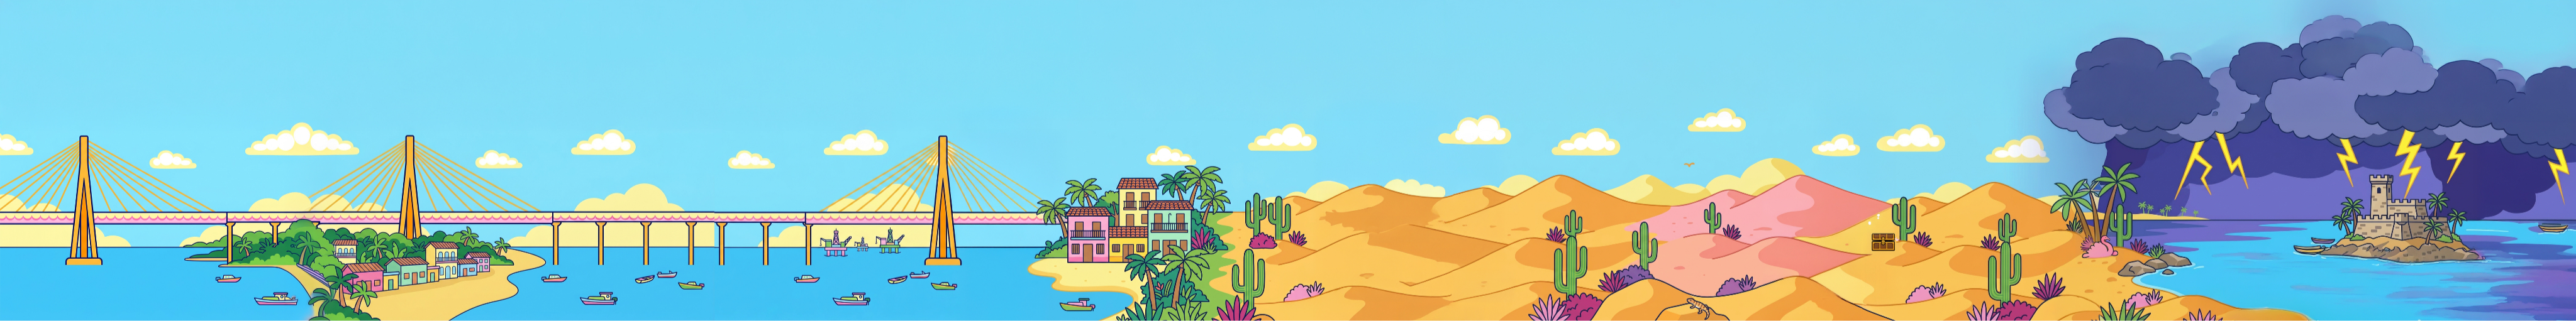
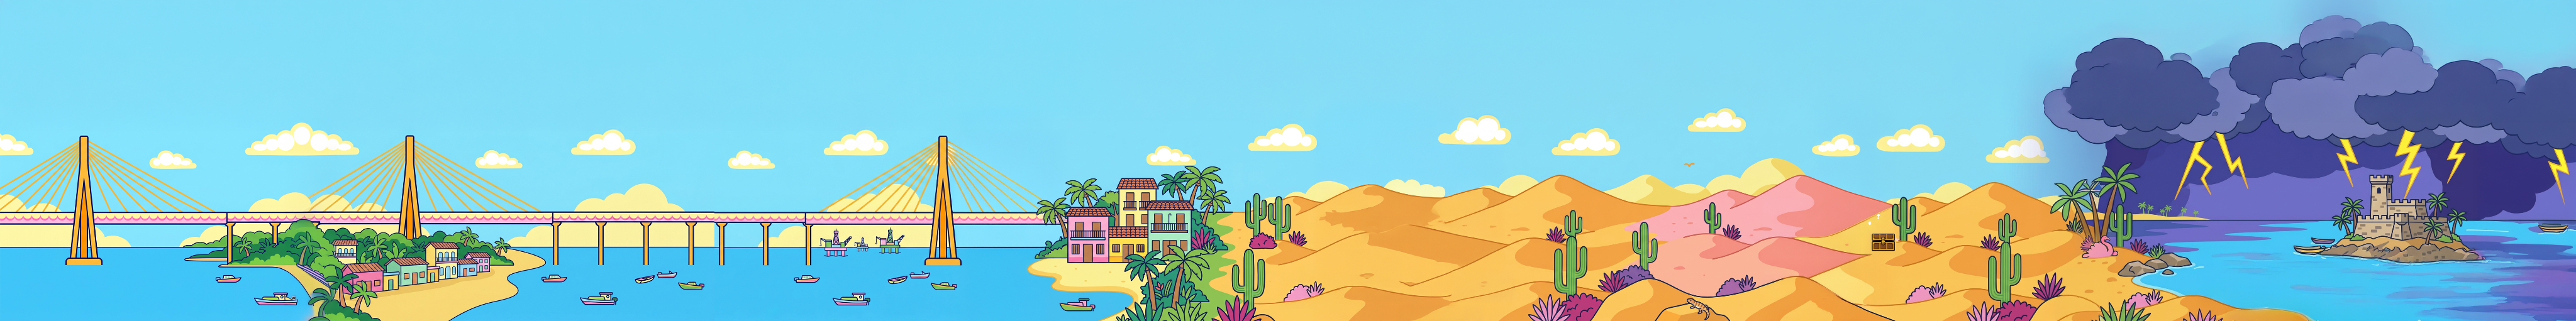
Sync Figma kisses, background, and menu screen updates
- Add 29 kiss collectibles from M02 artboard (figma-gameplay-markers.json)
- Move timer, enemy, spark, portal markers to synced JSON
- Refresh level-1-mobile background PNG from Figma
- Update start menu title to TEPUY / LEVEL 1 (M01)
- Bump worldAssetVersion to 20260705m

diff --git a/src/scenes/MenuScene.ts b/src/scenes/MenuScene.ts
@@ -74,17 +74,17 @@ export class MenuScene extends Phaser.Scene {
 
   private createUi(): void {
     this.titleGroup = this.add.container(0, 0).setDepth(110);
-    const title = this.add.text(0, 0, "Andsiosa's", {
-      fontSize: '64px',
-      fontFamily: 'Nunito, sans-serif',
-      color: '#e91e63',
-      fontStyle: 'bold',
-    }).setOrigin(0.5);
-
-    const subtitle = this.add.text(0, 80, 'Creative Quest', {
+    const title = this.add.text(0, 0, 'TEPUY', {
       fontSize: '72px',
       fontFamily: 'Nunito, sans-serif',
       color: '#880e4f',
+      fontStyle: 'bold',
+    }).setOrigin(0.5);
+
+    const subtitle = this.add.text(0, 72, 'LEVEL 1', {
+      fontSize: '36px',
+      fontFamily: 'Nunito, sans-serif',
+      color: '#e91e63',
       fontStyle: 'bold',
     }).setOrigin(0.5);
 

diff --git a/src/config/gameConfig.ts b/src/config/gameConfig.ts
@@ -4,7 +4,7 @@
  */
 export const GAME_CONFIG = {
   /** Bump after Figma asset sync so phones bypass CDN/browser cache */
-  worldAssetVersion: '20260705v',
+  worldAssetVersion: '20260705m',
   characterAssetVersion: '20260705l',
   enemyAssetVersion: '20260705l',
 

diff --git a/figma/GAMEPLAY-ZONES.md b/figma/GAMEPLAY-ZONES.md
@@ -17,11 +17,9 @@ Move the green rectangles until they sit on the walkable tops in the artwork. Th
 
 ## Sync to the game
 
-After repositioning in Figma, copy each rectangle’s **x, y, width, height** into:
+Marker positions → `figma/figma-gameplay-markers.json` (kisses, timer, spark, enemies, portal).
 
-`public/assets/world/level-1/layout-mobile.json` → `platforms[]` and `clouds[]`
-
-Marker positions → `markers` object (use ellipse center as `x`, `y`).
+Platform zones → `public/assets/world/level-1/figma-platform-zones.json`
 
 Then run:
 